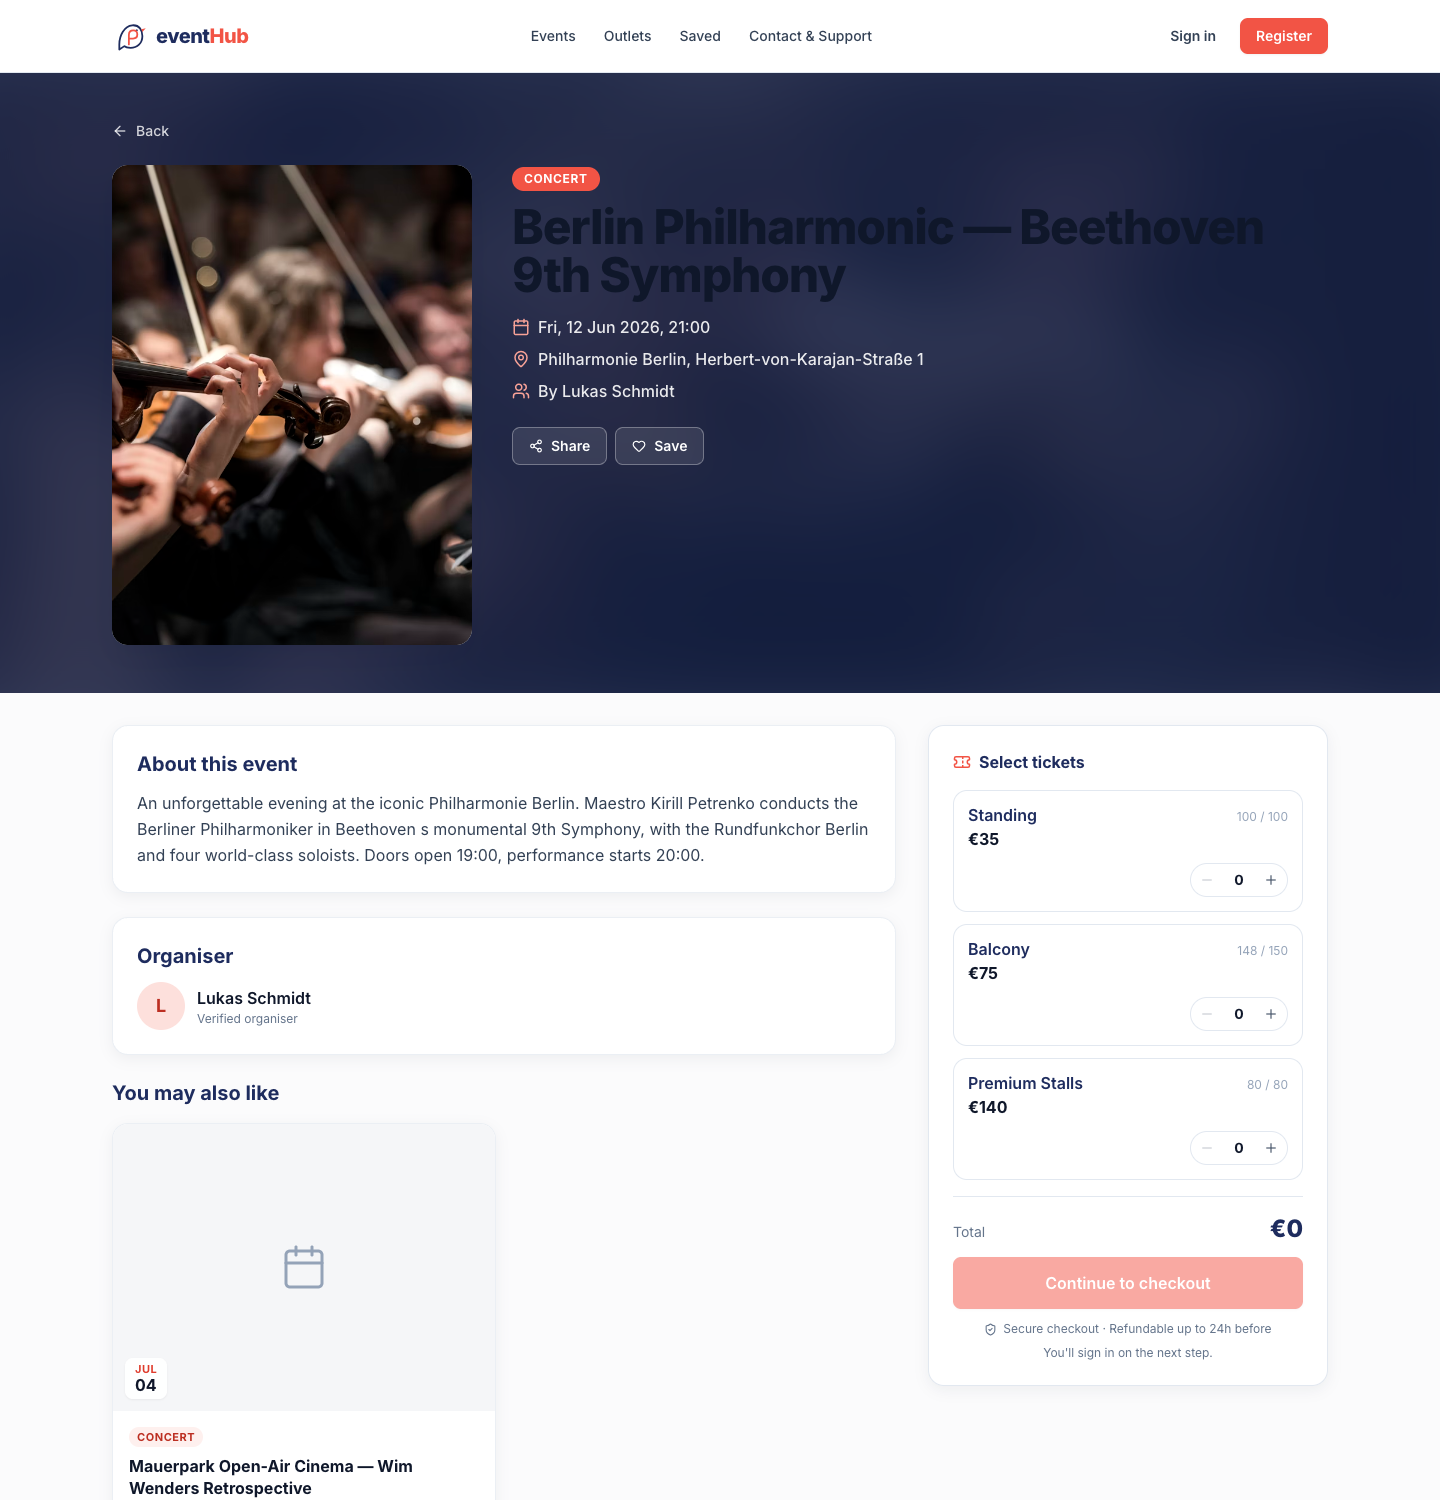
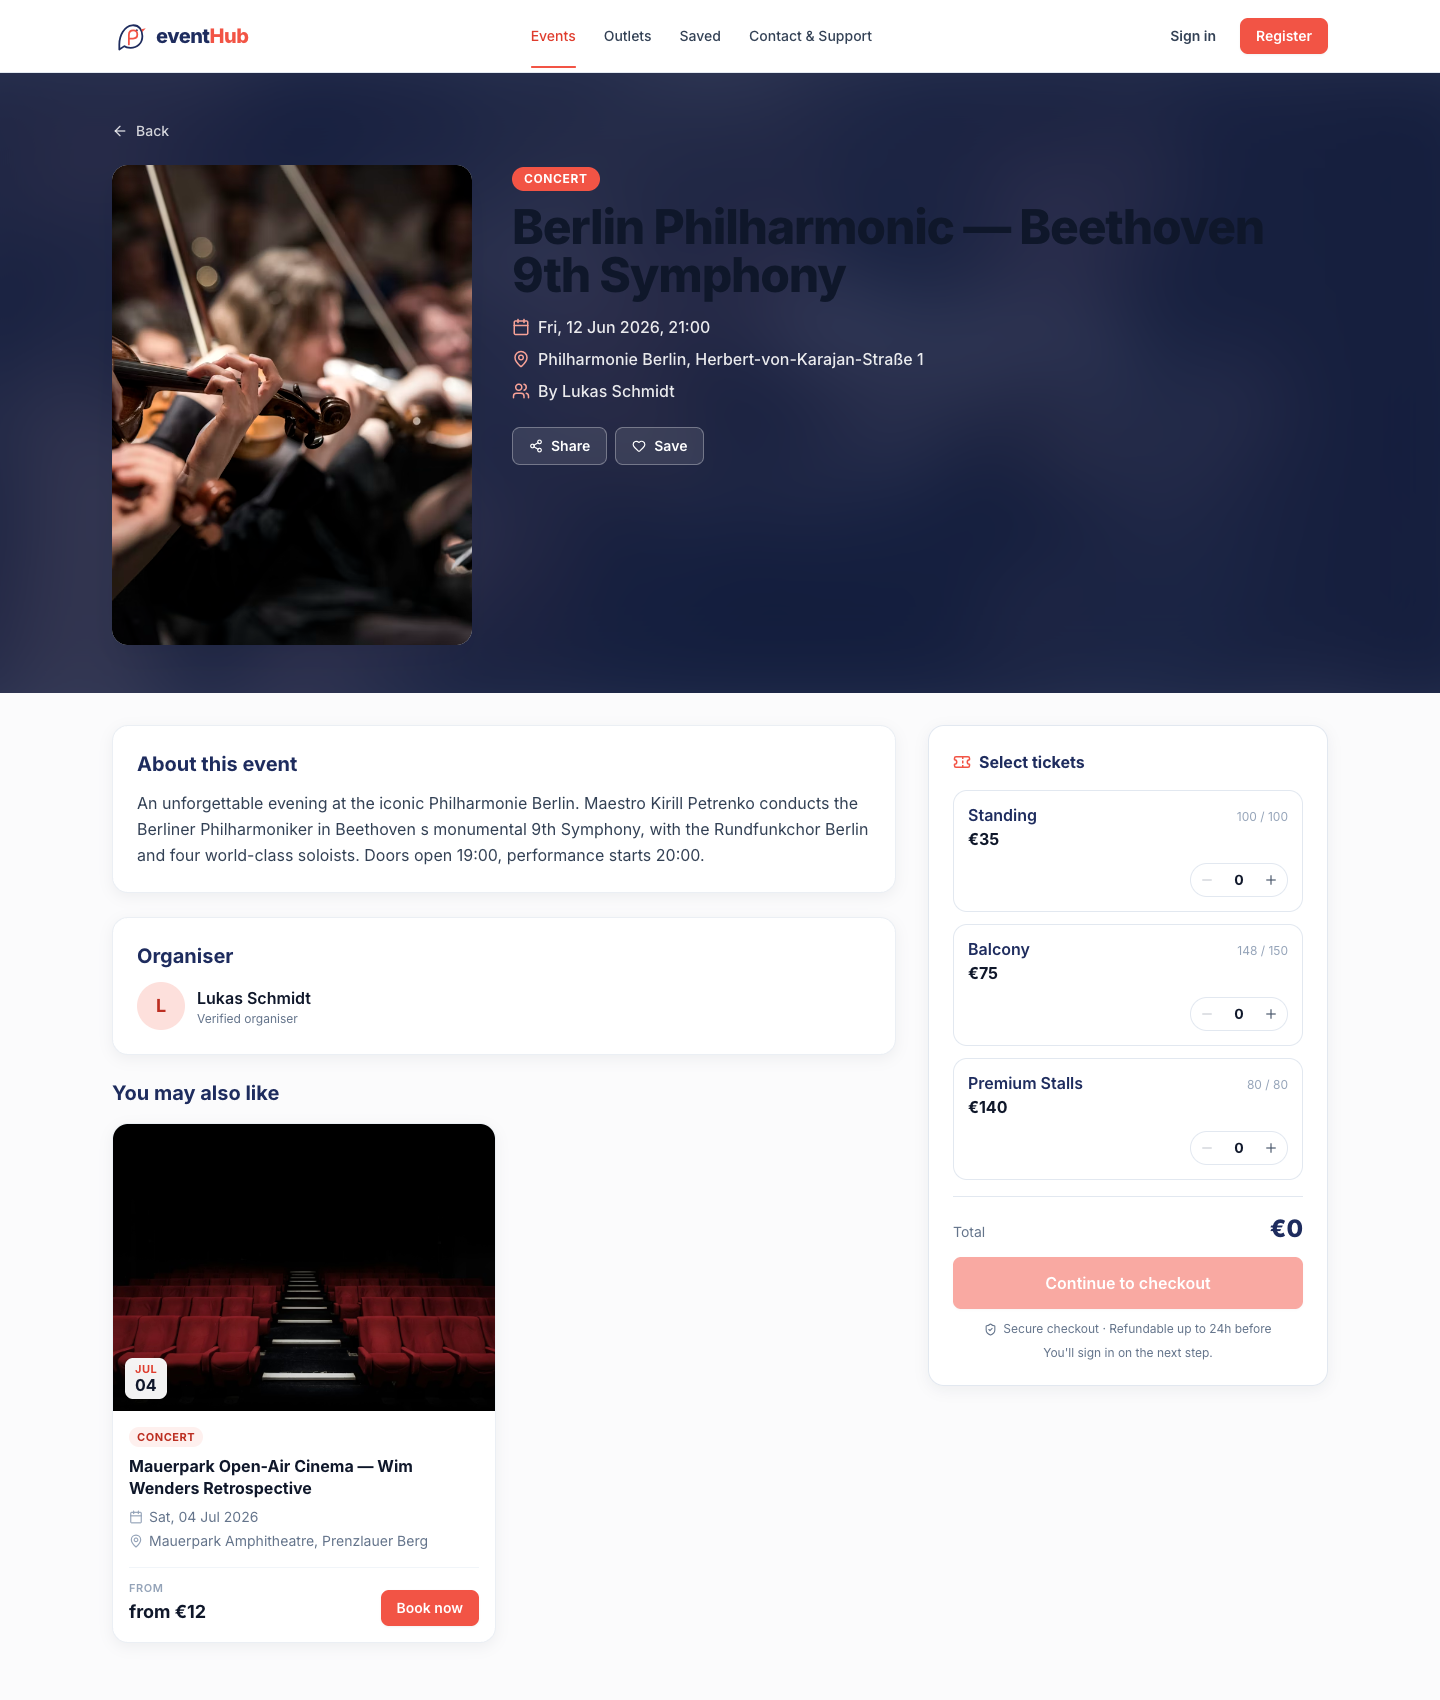
final commit

diff --git a/frontend/src/components/Navbar.jsx b/frontend/src/components/Navbar.jsx
@@ -39,18 +39,25 @@ const Navbar = () => {
     };
 
     const baseLinks = [
-        { to: '/', label: 'Events', exact: true },
+        // "Events" should also light up on event detail and booking pages, since the user is still browsing.
+        { to: '/', label: 'Events', exact: true, activePrefixes: ['/events', '/booking'] },
         { to: '/outlets', label: 'Outlets' },
         { to: '/saved', label: 'Saved' },
         { to: '/contact', label: 'Contact & Support' },
     ];
+
+    const isLinkActive = (link, isActiveFromNavLink) => {
+        if (isActiveFromNavLink) return true;
+        const prefixes = link.activePrefixes || [];
+        return prefixes.some((p) => location.pathname === p || location.pathname.startsWith(p + '/'));
+    };
 
     const roleLinks = !user
         ? []
         : {
               'Standard User': [{ to: '/bookings', label: 'My Bookings' }],
               Organizer: [
-                  { to: '/my-events', label: 'My Events' },
+                  { to: '/my-events', label: 'My Events', exact: true },
                   { to: '/my-events/analytics', label: 'Analytics' },
               ],
               'System Admin': [
@@ -85,7 +92,7 @@ const Navbar = () => {
                                     end={link.exact}
                                     className={({ isActive }) =>
                                         `relative text-sm font-medium transition-colors ${
-                                            isActive
+                                            isLinkActive(link, isActive)
                                                 ? 'text-primary-600'
                                                 : 'text-slate-700 hover:text-primary-600'
                                         }`
@@ -94,7 +101,7 @@ const Navbar = () => {
                                     {({ isActive }) => (
                                         <>
                                             {link.label}
-                                            {isActive && (
+                                            {isLinkActive(link, isActive) && (
                                                 <span className="absolute -bottom-[22px] left-0 right-0 h-0.5 rounded-full bg-primary-500" />
                                             )}
                                         </>
@@ -184,7 +191,7 @@ const Navbar = () => {
                                     end={link.exact}
                                     className={({ isActive }) =>
                                         `block px-3 py-2 rounded-lg text-base font-medium ${
-                                            isActive
+                                            isLinkActive(link, isActive)
                                                 ? 'bg-primary-50 text-primary-700'
                                                 : 'text-slate-700 hover:bg-slate-50'
                                         }`
